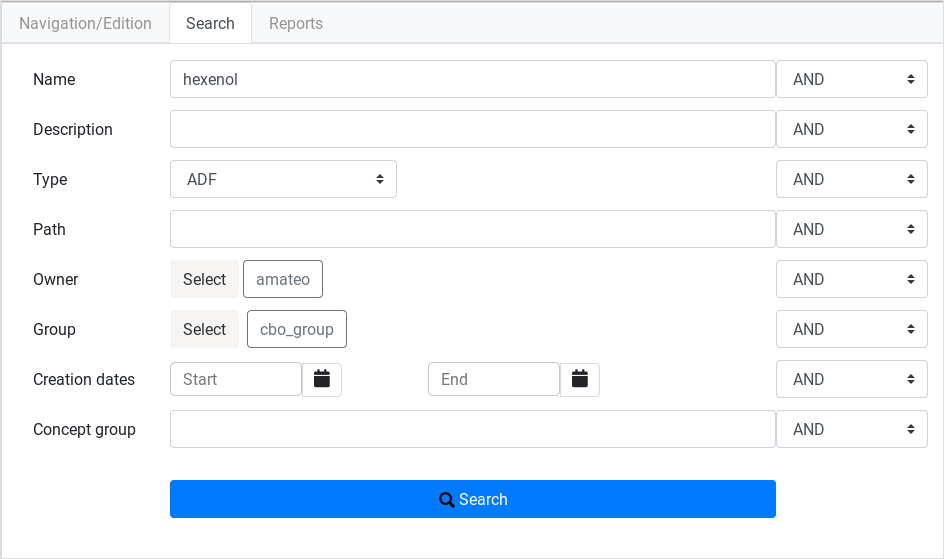
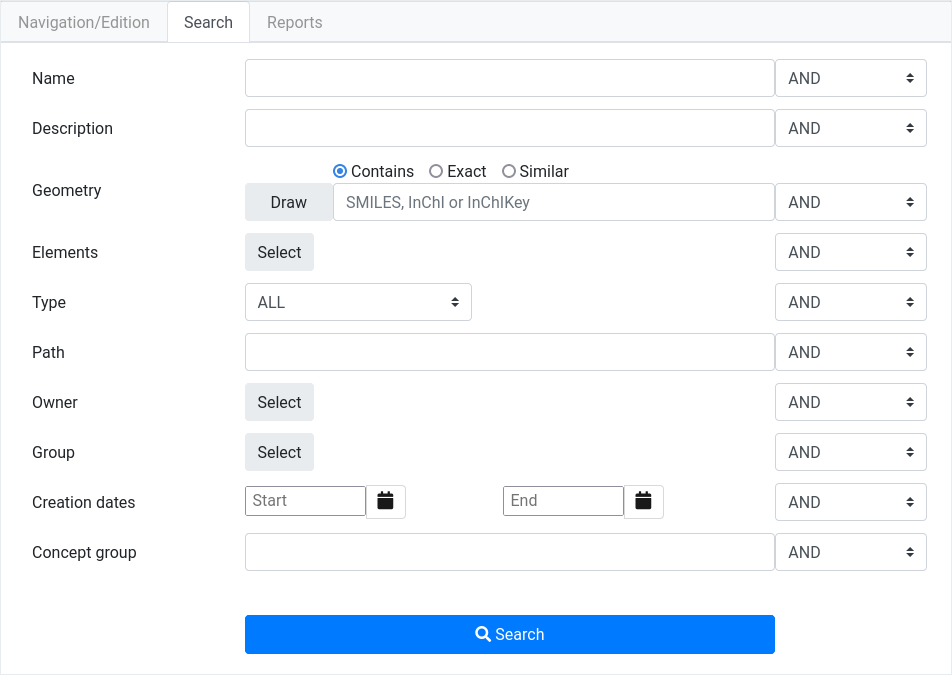
Updated to v3 features

diff --git a/guides/installation/publishing-endpoints-definition.rst b/guides/installation/publishing-endpoints-definition.rst
@@ -146,12 +146,24 @@ Assign community publishers
 
 Once our publication structure has been defined, our last step as administrator is to define who will publish and where he/she will publish
 
+.. note:: The ioChem-BD administrator account has higher levels of administrator than simple users managing their publishing community. So the system admin will be able to remove published collections and items, whereas other users will not.
+
 To assign publication rights to a community we must define its administrators, it can be done in two ways.
 
-1.Adding users as community administrators
-~~~~~~~~~~~~~~~~~~~~~~~~~~~~~~~~~~~~~~~~~~
+1. Adding the community on user’s edition form
+~~~~~~~~~~~~~~~~~~~~~~~~~~~~~~~~~~~~~~~~~~~~~~
 
-.. note:: The ioChem-BD administrator account has higher levels of administrator than simple users managing their publishing community. So the system admin will be able to remove published collections and items, whereas other users will not.
+On the top bar we will navigate to the *Administer* option, then *Access control* and finally *E-People*, it will open *Administer EPeople* page.
+
+From here, we will search and edit the specific user by clicking the *Edit* button. On the edition form, you can choose the communities where the user will be allowed to publish by selecting it on the listbox named *Communities user can publish into*.
+
+.. figure:: /imgs/Admin_createuser4.png
+   :alt: Set user publishing communities
+
+   Set user publishing communities
+
+2. Adding users as community administrators
+~~~~~~~~~~~~~~~~~~~~~~~~~~~~~~~~~~~~~~~~~~
 
 We will first navigate to the desired community, in this example this will be a specific user community. From the sidebar we will click on the *Edit* button.
 
@@ -178,18 +190,6 @@ If we are working with a group community with no users, as described in the four
    Set community administrators
 
 We will do so for every user / group of users that we want to be able to publish, otherwise users will not be able to publish in the Browse module.
-
-2. Adding the community on user’s edition form
-~~~~~~~~~~~~~~~~~~~~~~~~~~~~~~~~~~~~~~~~~~~~~~
-
-On the top bar we will navigate to the *Administer* option, then *Access control* and finally *E-People*, it will open *Administer EPeople* page.
-
-From here, we will search and edit the specific user by clicking the *Edit* button. On the edition form, you can choose the communities where the user will be allowed to publish by selecting it on the listbox named *Communities user can publish into*.
-
-.. figure:: /imgs/Admin_createuser4.png
-   :alt: Set user publishing communities
-
-   Set user publishing communities
 
 Resume
 ~~~~~~

diff --git a/guides/usage/create-module-walktrough.rst b/guides/usage/create-module-walktrough.rst
@@ -64,15 +64,19 @@ The Navigation tab will display a navigation tree composed of nodes and leaves. 
 
 | On calculations, the *Type* column contains the abbreviation of the original software package used:
 
-  -  ADF: Calculation generated with `Amsterdam Density functional`_ software package
+  -  ADF/AMS/: Calculation generated with `Amsterdam Density functional`_ software package
   -  AMB: Calculation generated with `Amber`_ software package
+  -  CAS: Calculation generated with `CASTEP`_ software package
   -  GAU: Calculation generated with `Gaussian`_ software package
   -  GMC: Calculation generated with `GROMACS`_ software package
+  -  GRRM: Calculation generated with `GRRM`_ software package    
   -  GRO: Calculation generated with `GronOR`_ software package
+  -  LAM: Calculation generated with `LAMMPS`_ software package
   -  MOL: Calculation generated with `Molcas`_ software package
   -  MOP: Calculation generated with `Mopac`_ software package
   -  ORC: Calculation generated with `Orca`_ software package
   -  QEX: Calculation generated with `QuantumESPRESSO`_ software package
+  -  SIE: Calculation generated with `SIESTA`_ software package
   -  TML: Calculation generated with `Turbomole`_ software package
   -  VSP: Calculation generated with `Vienna Ab initio Simulation Package`_ software package
 
@@ -97,7 +101,7 @@ Read the `Publishing Calculations`_ section or the `Generate reports`_ section t
 Search mode
 ~~~~~~~~~~~
 
-The Search tab will display a form where the user can query all uploaded projects/calculations. Multiple filters are available to refine queries. Currently, it only filters by administrative metadata:
+The Search tab will display a form where the user can query all uploaded projects/calculations. Multiple filters are available to refine queries. Currently, it filters by administrative metadata and molecular structure:
 
   -  *Name* and *description* of the element, partial text matching search.
   -  *Type* of the element (calculation software type)
@@ -253,8 +257,7 @@ On the bottom area of this frame there is an empty space. It is left blank inten
 .. _path definition: uploading-content-to-create/using-web-interface.html#paths
 .. _Generating reports: generating-reports.html
 .. _Conversion template reference: ../../conversion-html.html
-
- 
-
-
-
+.. _CASTEP: http://www.castep.org/
+.. _GRRM: https://iqce.jp/GRRM/index_e.shtml
+.. _LAMMPS: https://www.lammps.org
+.. _SIESTA: https://siesta-project.org/siesta/

diff --git a/codes/quantumespresso/parameters-d3e44315.rst b/codes/quantumespresso/parameters-d3e44315.rst
@@ -135,7 +135,7 @@ parameters
    <transform process="operateScalar" xpath=".//cml:scalar[text() = 'lattice parameter (alat)']/following-sibling::cml:scalar[@dictRef='cc:value']" args="operator=multiply operand=0.52918" />
    <transform process="addUnits" xpath=".//cml:scalar[text() = 'lattice parameter (alat)']/following-sibling::cml:scalar[@dictRef='cc:value']" value="nonsi:angstrom" />
    <transform process="setValue" xpath=".//cml:scalar[text() = 'unit-cell volume']/following-sibling::cml:scalar[@dictRef='cc:value']" value="$string(replace(//cml:scalar[text() = 'unit-cell volume']/following-sibling::cml:scalar[@dictRef='cc:value']/text(),'\s+\(a.u.\)\^3',''))" />
-   <transform process="operateScalar" xpath=".//cml:scalar[text() = 'unit-cell volume']/following-sibling::cml:scalar[@dictRef='cc:value']" args="operator=multiply operand=0.52918" />
+   <transform process="operateScalar" xpath=".//cml:scalar[text() = 'unit-cell volume']/following-sibling::cml:scalar[@dictRef='cc:value']" args="operator=multiply operand=0.14818471" />
    <transform process="addUnits" xpath=".//cml:scalar[text() = 'unit-cell volume']/following-sibling::cml:scalar[@dictRef='cc:value']" value="nonsi:angstrom3" />
    <transform process="setValue" xpath=".//cml:scalar[text() = 'kinetic-energy cutoff']/following-sibling::cml:scalar[@dictRef='cc:value']" value="$string(replace(//cml:scalar[text() = 'kinetic-energy cutoff']/following-sibling::cml:scalar[@dictRef='cc:value']/text(),'\s+Ry\s*',''))" />
    <transform process="operateScalar" xpath=".//cml:scalar[text() = 'kinetic-energy cutoff']/following-sibling::cml:scalar[@dictRef='cc:value']" args="operator=multiply operand=13.605698066" />

diff --git a/guides/usage/publishing-calculations/publish-process.rst b/guides/usage/publishing-calculations/publish-process.rst
@@ -24,20 +24,18 @@ Select the elements to publish
 
 On Create module, navigate to the project where the desired calculations reside. 
 
-We can select an individual calculation by clicking on it, or using multiselect with *Ctrl + Click*, *Alt + Click*. 
-Another way to select calculations is right clicking on parent project and choose *Select child elements* from its context menu.
+Then you must select it and right click it, then choose *Publish* from the *Browse module* section of the context menu.
 
-.. attention:: 
-   You must select the project **and its inner calculations** prior publishing.  
-   If you only select the project and not its content you will publish the project **empty of contents**.
+.. attention::
+   Since ioChem-BD v3.0, you can only select and publish the entire project, not part of its content. 
+   You must select the project **only** prior publishing.  If you select other content, the publish option will not be available.
 
 
-Once desired projects and calculations are selected, right click on the current selection to display its context menu. Then select *Publish* option.
 
 .. figure:: /imgs/CreatePublishSelection1.png
-   :alt: Calculation selection
+   :alt: Project selection
 
-   Calculation selection
+   Project selection
 
 
 If an error message appears at this point, please read the FAQ entry about `no publishing community defined`_.

diff --git a/conversion-test-dataset.rst b/conversion-test-dataset.rst
@@ -7,7 +7,7 @@ This document collects a number of cases that ioChem-BD can handle. Find below t
 
 We kindly ask the interested reader to browse the **Conversion Templates: Text to CML** for a detailed description of what and from where data fields are captured, and how the HTML5 file is generated for visualisation. Note that ioChem-BD captures many data fields but for only few of them the HTML5 representation is generated. Given the dynamic architecture of iochem-BD, generating new capture templates and/or new representation templates is extremely flexible, so new templates can be written and implemented **at any time without disrupting normal operation**. Contact us for further requests.
 
-Release 2.9.0 (current)
+Release 3.0.0 (current)
 -----------------------
 
 ioChem-BD handles results obtained from:

diff --git a/guides/usage/video-tutorials.rst b/guides/usage/video-tutorials.rst
@@ -9,3 +9,11 @@ Reaction Energy Profile report creation
     <iframe width="696" height="435" src="https://www.youtube.com/embed/IRQ28Jd6_X0" frameborder="0" allow="accelerometer; autoplay; encrypted-media; gyroscope; picture-in-picture" allowfullscreen></iframe>
 
 
+
+
+Reaction Graph report creation
+------------------------------
+
+.. raw:: html
+
+    <iframe width="696" height="435" src="https://doi.org/10.19061/O21Igs5R8Ho" frameborder="0" allow="accelerometer; autoplay; encrypted-media; gyroscope; picture-in-picture" allowfullscreen></iframe>

diff --git a/guides/usage/generating-reports.rst b/guides/usage/generating-reports.rst
@@ -19,7 +19,7 @@ To generate a new report, users have to click on the Reports tab and then choose
 
    New report button
 
-.. note:: The current version of ioChem-BD has *Supporting information*, *Reaction energy profile* and *Reaction graph* reports activated.
+.. note:: The current version of ioChem-BD has *Supporting information*, *Reaction energyprofile* and *Reaction graph* reports activated.
 
 Report page
 -----------
